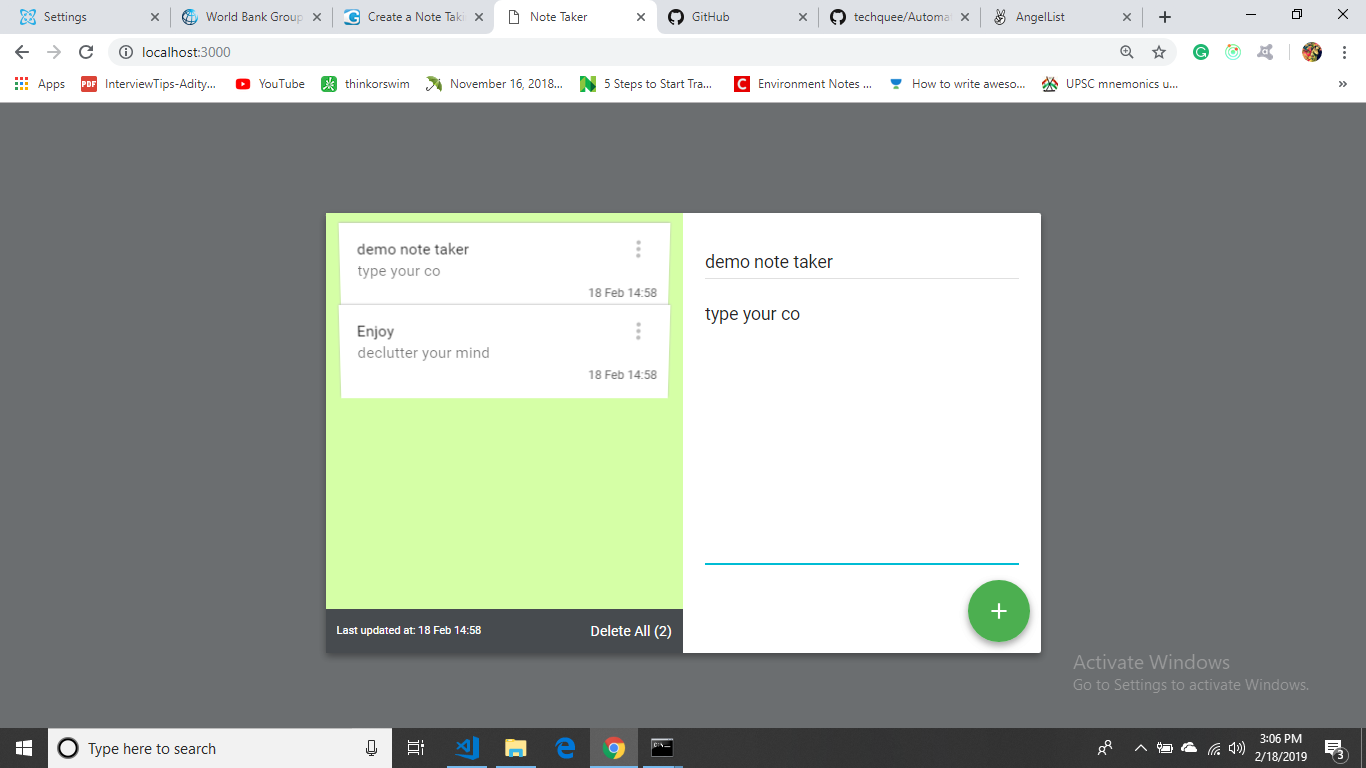
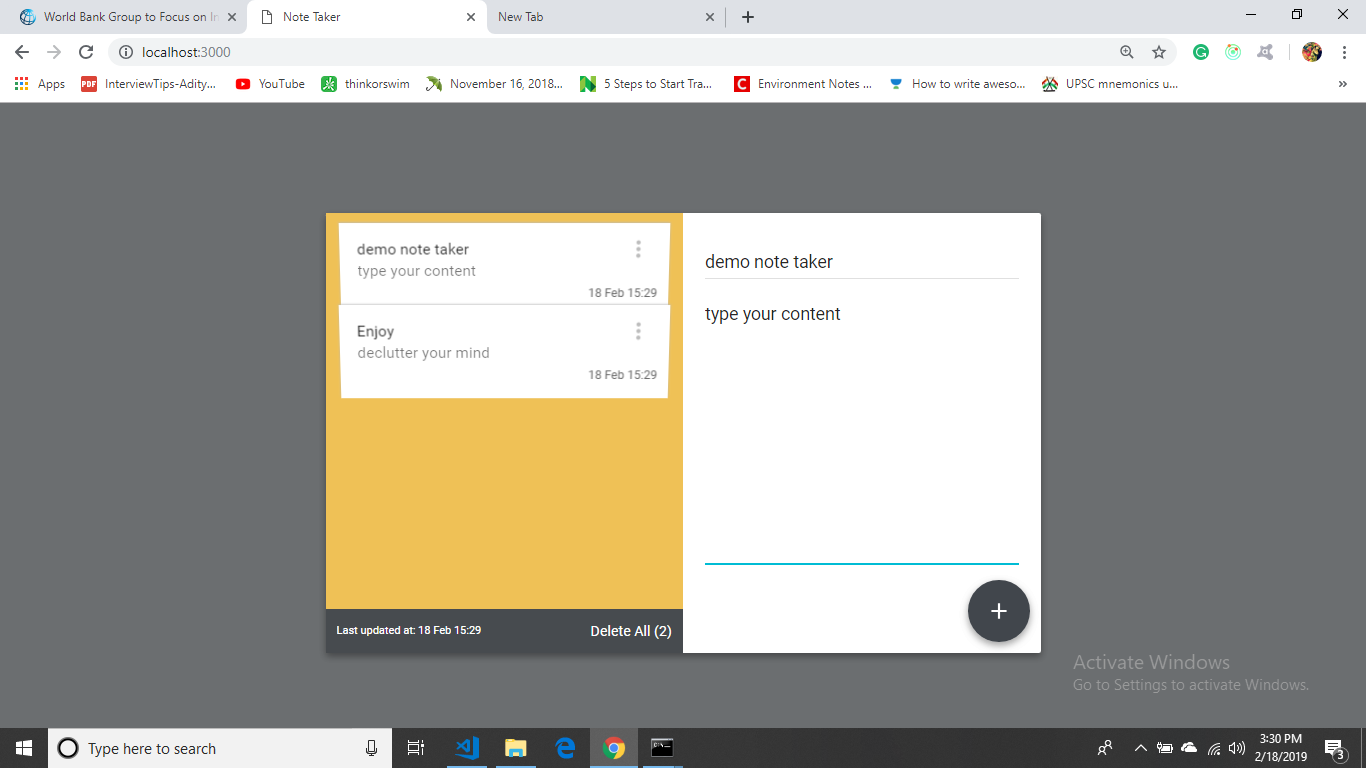
changes

diff --git a/js/components/noteInput.js b/js/components/noteInput.js
@@ -9,7 +9,7 @@ let newBtnStyle = {
   position: 'absolute',
   bottom: '10px',
   right: '10px',
-  color: '#ebf442'
+  color: '#41464c'
 };
 
 export default React.createClass({
@@ -44,7 +44,7 @@ export default React.createClass({
           }}
           />
 
-        <FloatingActionButton backgroundColor={'#4caf50'} style={newBtnStyle} className="newNoteBtn"
+        <FloatingActionButton backgroundColor={'#41464c'} style={newBtnStyle} className="newNoteBtn"
                               onClick={_ => props.addNote()}>
           <ContentAdd />
         </FloatingActionButton>

diff --git a/less/main.less b/less/main.less
@@ -57,7 +57,7 @@ head, body {
   width: 100%;
   height: @totalHeight - @actionsHeight;
   overflow: auto;
-  background-color: #d5ffa6 !important;
+  background-color: #efc156 !important;
   border-radius: 0 !important;
 }
 
@@ -69,7 +69,7 @@ head, body {
 
 .noteTitle {
   font-size: 12px;
-  color: #fab92b;
+  color: #bbb;
 }
 
 .noteTime {

diff --git a/js/reducers/noteListReducer.js b/js/reducers/noteListReducer.js
@@ -5,7 +5,7 @@ import constants from '../constants'
 
 function getNewNote() {
   return {
-    t: 'Untitled Text',
+    t: 'Default Note',
     c: '',
     d: +new Date(),
     id: uniqueId()
